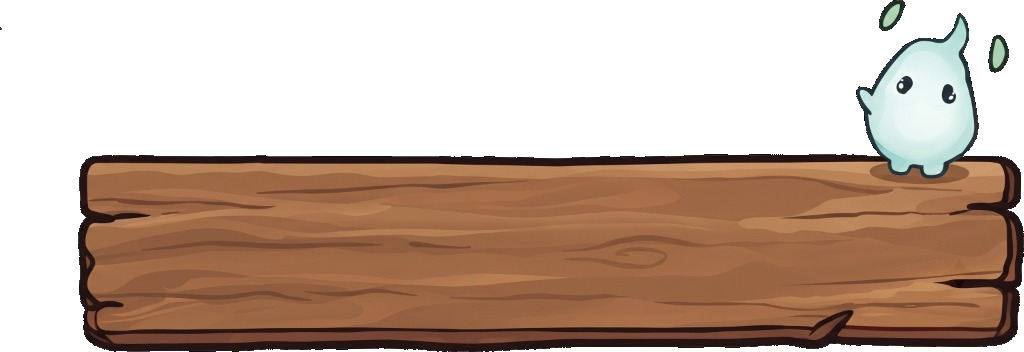
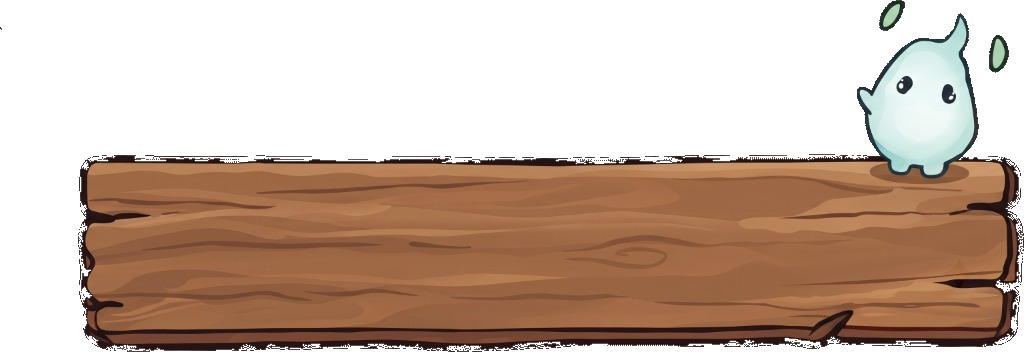
fix: remove black background from wood_2.png with pure transparent ARGB PNG and remove layered background-image

diff --git a/style.css b/style.css
@@ -212,10 +212,11 @@ body.ghibli-app-body {
   height: 48px;
   pointer-events: none;
   z-index: 1;
-  background-image: url('wood_2.png'), url('wood_2.jpg'), url('wood.png'), url('wood.jpg');
+  background-image: url('wood_2.png');
   background-size: 100% 100%;
   background-repeat: no-repeat;
   background-position: center;
+  background-color: transparent;
   border-radius: 10px;
   box-shadow: 
     0 4px 12px rgba(43, 24, 16, 0.4),
